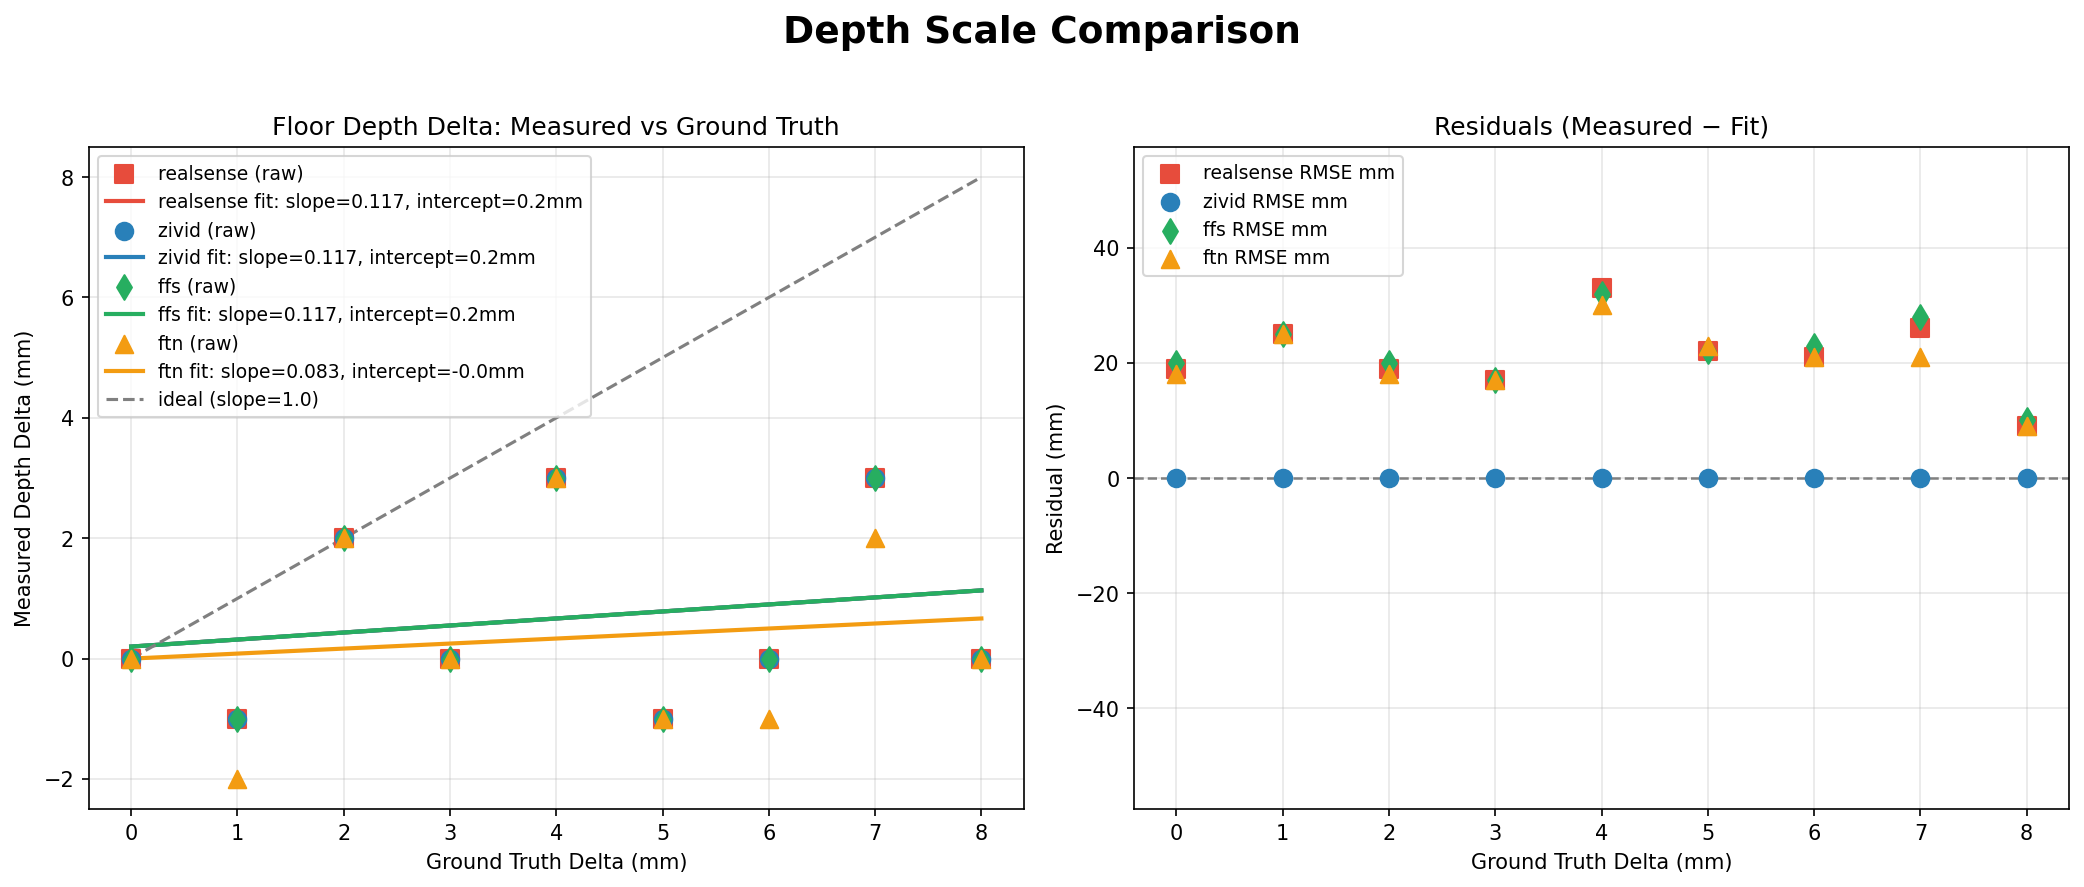
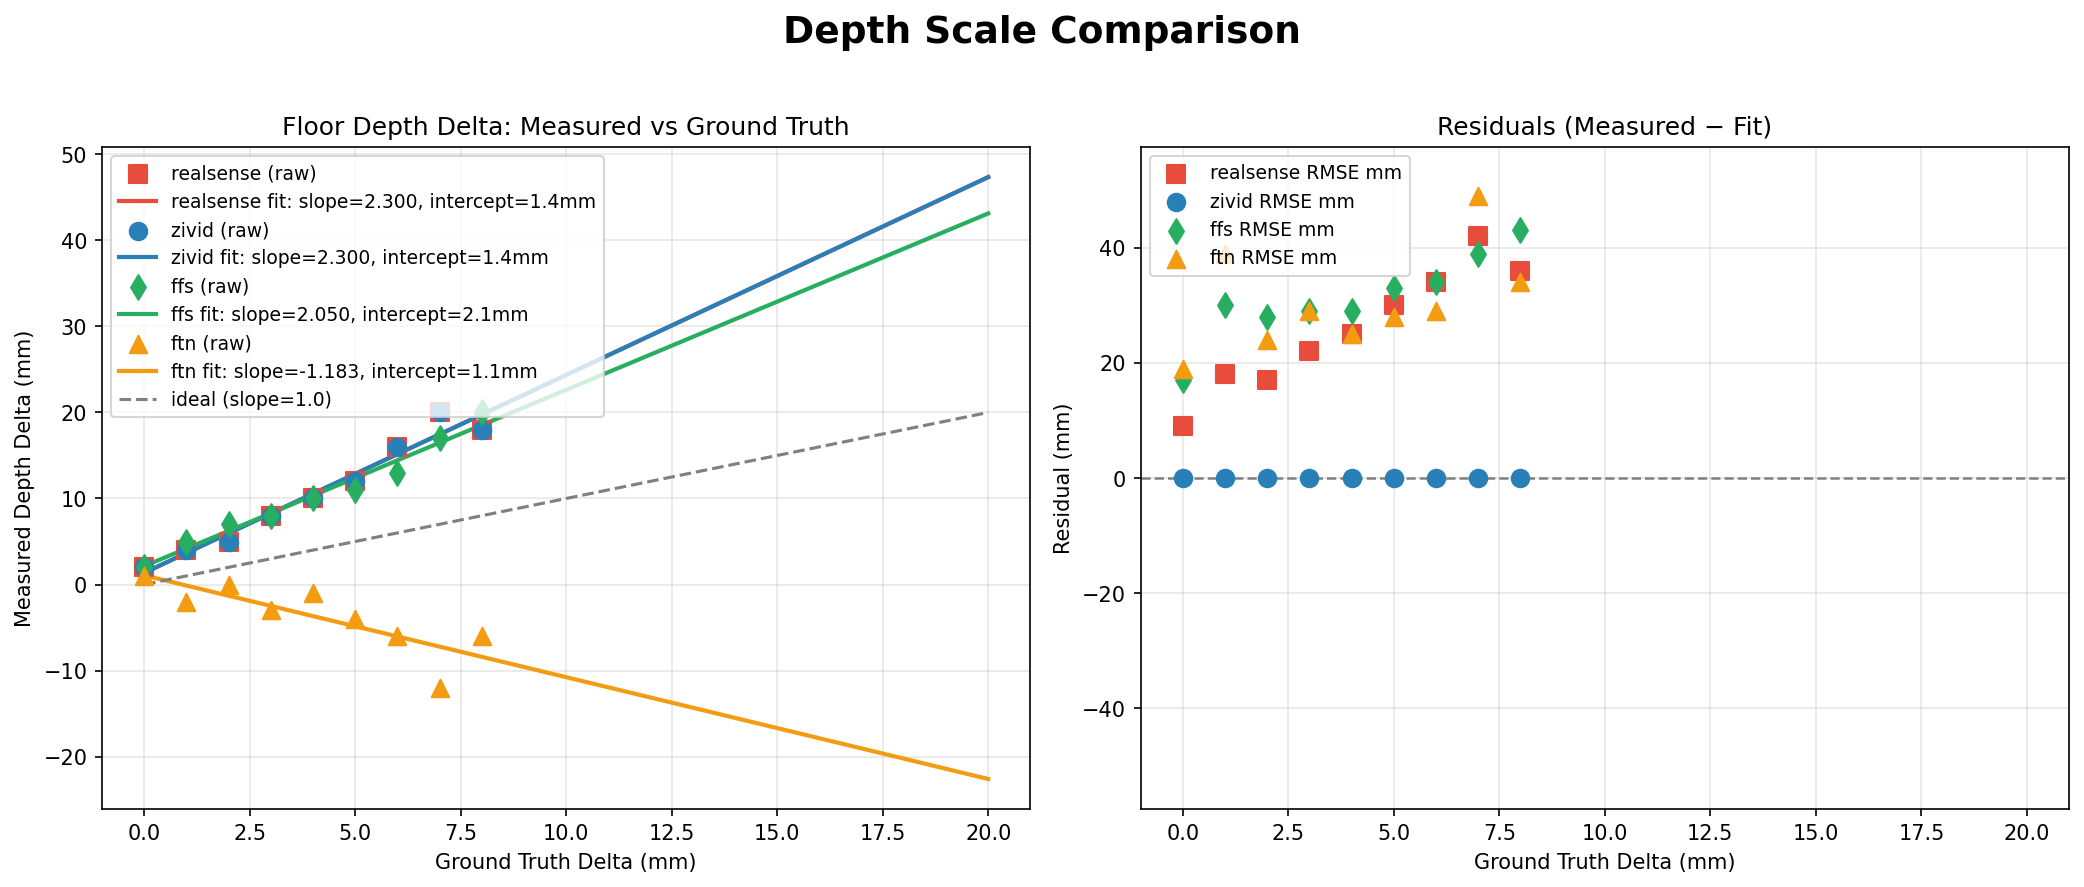
with hila

diff --git a/scripts/benchmark_inbolt_fast_foundation.py b/scripts/benchmark_inbolt_fast_foundation.py
@@ -25,8 +25,8 @@ sys.path.append(code_dir)
 
 import numpy as np
 import torch
-#import matplotlib
-#matplotlib.use('Agg')
+# import matplotlib
+# matplotlib.use('Agg')
 import matplotlib.pyplot as plt
 
 from core.utils.utils import InputPadder
@@ -57,7 +57,7 @@ DEFAULT_OUT     = f'{code_dir}/../reports/inbolt_ffs_benchmark'
 # DEFAULT_OUT    = f'{code_dir}/../reports/faro_benchmark'
 
 BF              = 49470.45   # focal_px * baseline_mm  (calibrated from camera)
-BF_RS           = 49.8624*385.73  # D435 - focal_px * baseline_mm (calibrated from camera)
+BF_RS           = 49.8624*385.73 #- true # D435 - focal_px * baseline_mm (calibrated from camera)
 ITERS           = 8          # GRU iterations
 N_VIZ           = 5         # number of frames saved for visual comparison in report
 
@@ -797,7 +797,7 @@ def main_inbolt_graphs_with_projection():
             #zv_depth_rsme[idx] = np.sqrt(np.mean((zv_diff - zv_depth_diff[idx])**2))            
 
     sm = build_example_depth_scale_regression_series(gt_depth_diff, rs_depth_diff, zv_depth_diff, rs_rsme_mm=rs_depth_rsme, zv_rsme_mm=zv_depth_rsme)
-    plot_depth_scale_regression(sm, out_path=Path(DEFAULT_OUT) / "depth_scale_comparison.png", title="Depth Scale Comparison")
+    plot_depth_scale_regression(sm, out_path=Path(DEFAULT_OUT) / "depth_scale_comparison_inbolt.png", title="Depth Scale Comparison")
 
     logging.info(f"All outputs written to {out_dir}")
 
@@ -844,10 +844,7 @@ def main_inbolt_ffs_graphs_with_projection():
     zv_depth_rsme = np.arange(n)*0 # zivid mm
     ffs_depth_rsme = np.arange(n)*0 # mm
     ftn_depth_rsme = np.arange(n)*0 # zivid mm        
-    rs_ref = None
-    zv_ref = None
-    ffs_ref = None
-    ftn_ref = None
+
     for idx in range(n):
         data            = source.get_item_projected(idx)
         left            = data['left']
@@ -858,36 +855,23 @@ def main_inbolt_ffs_graphs_with_projection():
         ftn_mm          = infer_depth_rs_mm(models["finetuned"], left, right)
    
         # project zivid on rs
-        zv_prj_mm           = project_depth_zivid_to_rs(zv_mm, rs_mm, finx = idx)
+        zv_prj_mm       = zv_mm #project_depth_zivid_to_rs(zv_mm, rs_mm, finx = idx)
 
-        rs_valid           = (10 < rs_mm) 
-        zv_valid           = (10 < zv_prj_mm) 
-        ffs_valid          = (10 < ffs_mm)  
-        ftn_valid          = (10 < ftn_mm)  
+        rs_valid        = (10 < rs_mm) 
+        zv_valid        = (10 < zv_prj_mm) 
+        ffs_valid       = (10 < ffs_mm)  
+        ftn_valid       = (10 < ftn_mm)  
 
-        zv_zv_error = source.compute_depth_error(zv_prj_mm, zv_prj_mm, depth_mask=zv_valid & rs_valid)
-        rs_zv_error = source.compute_depth_error(rs_mm, zv_prj_mm, depth_mask=zv_valid & rs_valid)
-        ffs_zv_error = source.compute_depth_error(ffs_mm, zv_prj_mm, depth_mask=zv_valid & ffs_valid)
-        ftn_zv_error = source.compute_depth_error(ftn_mm, zv_prj_mm, depth_mask=zv_valid & ftn_valid)
+        zv_zv_error     = source.compute_depth_error(zv_prj_mm, zv_prj_mm, depth_mask=zv_valid & rs_valid)
+        rs_zv_error     = source.compute_depth_error(rs_mm,     zv_prj_mm, depth_mask=zv_valid & rs_valid)
+        ffs_zv_error    = source.compute_depth_error(ffs_mm,    zv_prj_mm, depth_mask=zv_valid & ffs_valid)
+        ftn_zv_error    = source.compute_depth_error(ftn_mm,    zv_prj_mm, depth_mask=zv_valid & ftn_valid)
 
+        # # debug
+        # img_list = [left, right, rs_mm, zv_prj_mm, ffs_mm, ftn_mm]
+        # ttl_list = ['left (RS)', 'right (RS)', 'depth RS (mm)', 'depth Zivid (mm)', 'depth FFS (mm)', 'depth FTN (mm)']
+        # source.show_subset(img_list, ttl_list, save_path=DEFAULT_OUT , fig_name = f"sample_{idx:03d}_inputs.png")
 
-
-        # debug visualization of difference maps and valid masks
-        # plt.figure(figsize=(12, 4))
-        # plt.subplot(1, 3, 1),plt.imshow(rs_diff_map, vmin=-10, vmax=1000),plt.title(f"RealSense Depth Diff (mm)"),plt.colorbar()
-        # plt.subplot(1, 3, 2),plt.imshow(zv_diff_map, vmin=-10, vmax=1000),plt.title(f"Zivid Projected Depth Diff (mm)"),plt.colorbar()
-        # plt.subplot(1, 3, 3),plt.imshow(zv_valid, cmap='gray'),plt.title(f"Valid Mask (Zivid Projection)"),plt.colorbar()
-        # plt.suptitle(f"Sample {idx:03d} Depth Difference Maps and Valid Mask", fontsize=16)
-        # plt.tight_layout()
-        # plt.show()
-
-        # fig, axes = plt.subplots(1, 3, sharey=True, sharex=True, figsize=(8,4))
-        # axes[0].imshow(rs_diff_map, vmin=-10, vmax=1000),axes[0].set_title(f"RealSense Depth Diff (mm)"),
-        # axes[1].imshow(zv_diff_map, vmin=-10, vmax=1000),axes[1].set_title(f"Zivid Projected Depth Diff (mm)"),
-        # axes[2].imshow(zv_valid, cmap='gray'),axes[2].set_title(f"Valid Mask (Zivid Projection)"),
-        # plt.suptitle(f"Sample {idx:03d} Depth Difference Maps and Valid Mask", fontsize=16)
-        # plt.tight_layout()
-        # plt.show()
 
         zv_depth_diff[idx] = np.mean(zv_zv_error) 
         rs_depth_diff[idx] = np.mean(rs_zv_error)

diff --git a/scripts/inbolt_data_manager.py b/scripts/inbolt_data_manager.py
@@ -89,8 +89,8 @@ class DataSource:
         self.gray_scale_input = gray_scale_input
         self.imgs = []
 
-        #IGNORED_SESSIONS = {'dataset_y16_freedrive', 'dataset_y8_freedrive'}
-        IGNORED_SESSIONS = {'dataset_y16_freedrive','dataset_depth_bias'}
+        IGNORED_SESSIONS = {'dataset_y16_freedrive', 'dataset_y8_freedrive'}
+        #IGNORED_SESSIONS = {'dataset_y16_freedrive','dataset_depth_bias'}
 
         # Each immediate sub-directory is a session
         try:
